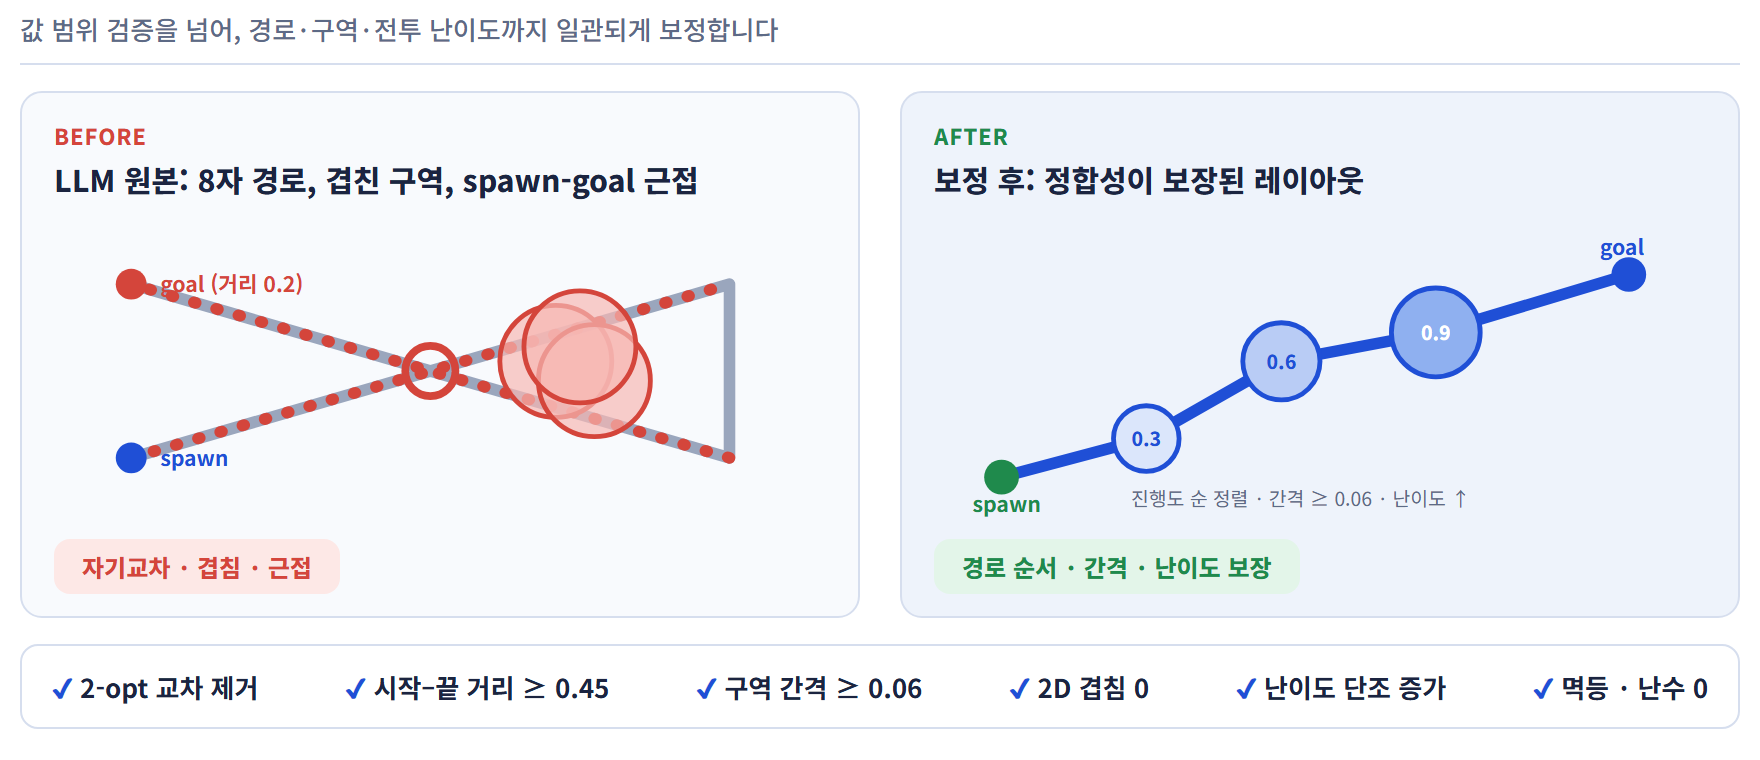
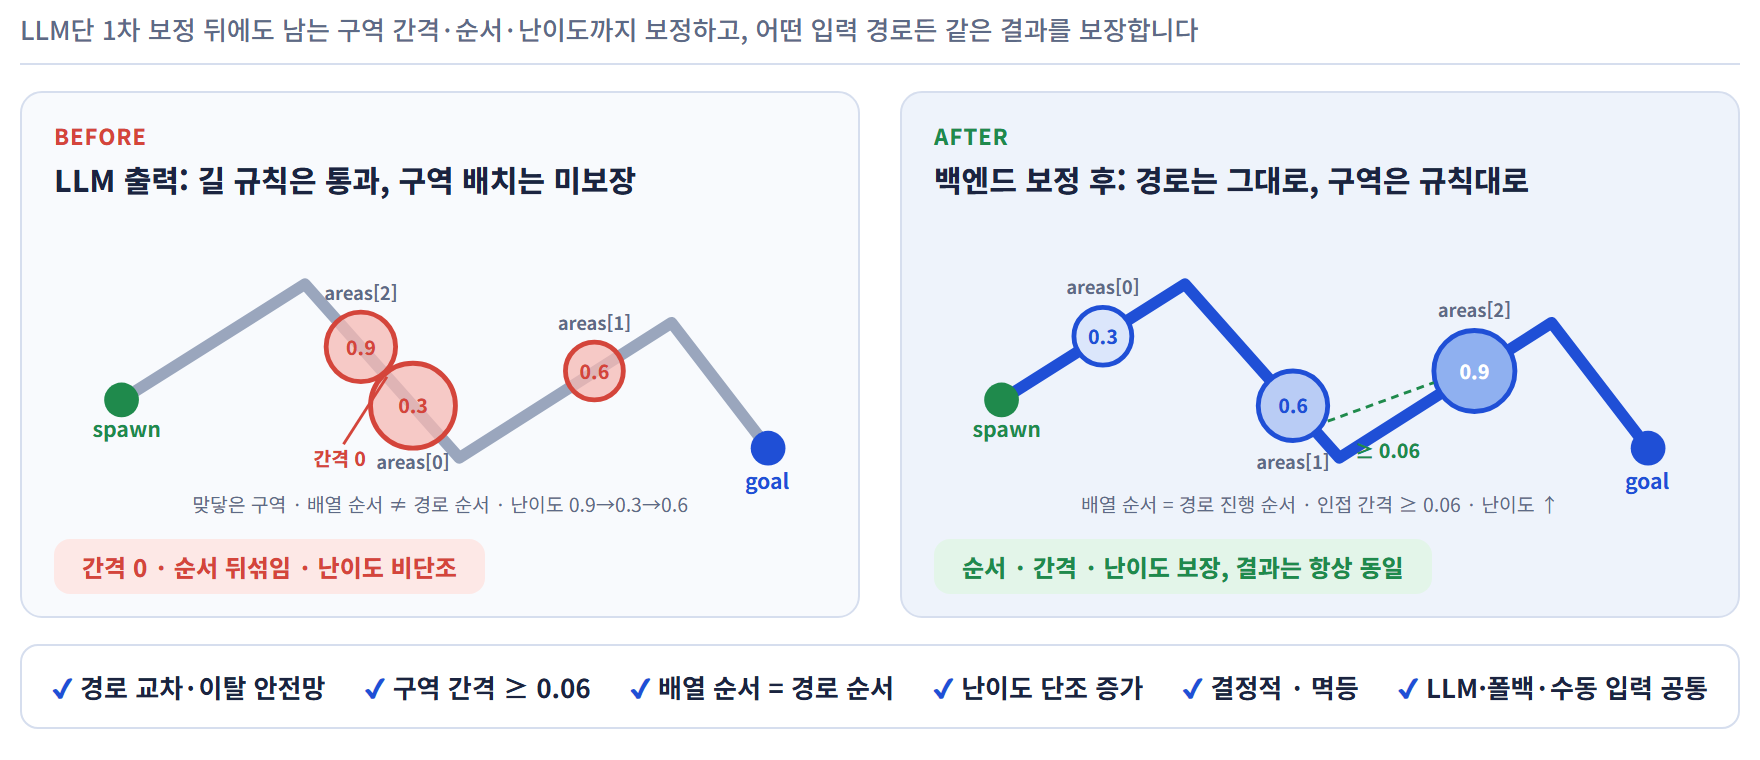
docs: 보정 엔진 도식을 LLM 1차 보정 이후 관점(간격·순서·난이도)으로 재구성

diff --git a/docs/slides/slide10.html b/docs/slides/slide10.html
@@ -19,49 +19,63 @@
   .strip { border:2px solid var(--line); border-radius:18px; padding:22px 30px; display:flex; justify-content:space-between; font-size:26px; font-weight:700; }
   .strip span::before { content:"✔ "; color:var(--blue); }
 </style></head><body><div class="wrap">
-  <div class="sub">값 범위 검증을 넘어, 경로·구역·전투 난이도까지 일관되게 보정합니다</div>
+  <div class="sub">LLM단 1차 보정 뒤에도 남는 구역 간격·순서·난이도까지 보정하고, 어떤 입력 경로든 같은 결과를 보장합니다</div>
   <div class="panels">
     <div class="panel">
-      <div class="tag b">BEFORE</div><h3>LLM 원본: 8자 경로, 겹친 구역, spawn-goal 근접</h3>
+      <div class="tag b">BEFORE</div><h3>LLM 출력: 길 규칙은 통과, 구역 배치는 미보장</h3>
       <svg viewBox="0 0 800 320">
-        <!-- figure-8 crossing path -->
-        <polyline points="80,250 700,70 700,250 80,70" fill="none" stroke="#9aa6bd" stroke-width="12" stroke-linejoin="round" stroke-linecap="round"/>
-        <line x1="80" y1="250" x2="700" y2="70" stroke="#d4453b" stroke-width="12" stroke-linecap="round" stroke-dasharray="2 22"/>
-        <line x1="700" y1="250" x2="80" y2="70" stroke="#d4453b" stroke-width="12" stroke-linecap="round" stroke-dasharray="2 22"/>
-        <circle cx="390" cy="160" r="26" fill="none" stroke="#d4453b" stroke-width="8"/>
-        <!-- overlapping combat circles -->
-        <circle cx="520" cy="150" r="58" fill="#f6b8b3" fill-opacity=".7" stroke="#d4453b" stroke-width="5"/>
-        <circle cx="560" cy="170" r="58" fill="#f6b8b3" fill-opacity=".7" stroke="#d4453b" stroke-width="5"/>
-        <circle cx="545" cy="135" r="58" fill="#f6b8b3" fill-opacity=".7" stroke="#d4453b" stroke-width="5"/>
-        <!-- spawn/goal too close -->
-        <circle cx="80" cy="250" r="16" fill="#1f4fd6"/>
-        <circle cx="80" cy="70" r="16" fill="#d4453b"/>
-        <text x="110" y="258" font-size="22" fill="#1f4fd6" font-weight="700">spawn</text>
-        <text x="110" y="78" font-size="22" fill="#d4453b" font-weight="700">goal (거리 0.2)</text>
+        <!-- same zig-zag path in both panels: shape is kept, not straightened -->
+        <polyline points="70,190 260,70 420,250 640,110 740,240" fill="none" stroke="#9aa6bd" stroke-width="12" stroke-linejoin="round" stroke-linecap="round"/>
+        <!-- touching combat circles (gap 0) -->
+        <circle cx="318" cy="135" r="36" fill="#f6b8b3" fill-opacity=".75" stroke="#d4453b" stroke-width="5"/>
+        <circle cx="372" cy="196" r="44" fill="#f6b8b3" fill-opacity=".75" stroke="#d4453b" stroke-width="5"/>
+        <!-- third combat, later on path -->
+        <circle cx="560" cy="160" r="30" fill="#f6b8b3" fill-opacity=".75" stroke="#d4453b" stroke-width="5"/>
+        <!-- array index labels out of path order + difficulty -->
+        <text x="318" y="143" font-size="20" fill="#d4453b" font-weight="800" text-anchor="middle">0.9</text>
+        <text x="372" y="204" font-size="20" fill="#d4453b" font-weight="800" text-anchor="middle">0.3</text>
+        <text x="560" y="168" font-size="20" fill="#d4453b" font-weight="800" text-anchor="middle">0.6</text>
+        <text x="318" y="86" font-size="19" fill="#5d6a86" font-weight="700" text-anchor="middle">areas[2]</text>
+        <text x="372" y="262" font-size="19" fill="#5d6a86" font-weight="700" text-anchor="middle">areas[0]</text>
+        <text x="560" y="118" font-size="19" fill="#5d6a86" font-weight="700" text-anchor="middle">areas[1]</text>
+        <!-- gap 0 marker -->
+        <line x1="345" y1="166" x2="300" y2="236" stroke="#d4453b" stroke-width="3"/>
+        <text x="296" y="258" font-size="20" fill="#d4453b" font-weight="800" text-anchor="middle">간격 0</text>
+        <circle cx="70" cy="190" r="18" fill="#1f8a4c"/>
+        <circle cx="740" cy="240" r="18" fill="#1f4fd6"/>
+        <text x="40" y="228" font-size="22" fill="#1f8a4c" font-weight="700">spawn</text>
+        <text x="716" y="282" font-size="22" fill="#1f4fd6" font-weight="700">goal</text>
+        <text x="400" y="306" font-size="20" fill="#5d6a86" text-anchor="middle">맞닿은 구역 · 배열 순서 ≠ 경로 순서 · 난이도 0.9→0.3→0.6</text>
       </svg>
-      <span class="pill b">자기교차 · 겹침 · 근접</span>
+      <span class="pill b">간격 0 · 순서 뒤섞임 · 난이도 비단조</span>
     </div>
     <div class="panel after">
-      <div class="tag a">AFTER</div><h3>보정 후: 정합성이 보장된 레이아웃</h3>
+      <div class="tag a">AFTER</div><h3>백엔드 보정 후: 경로는 그대로, 구역은 규칙대로</h3>
       <svg viewBox="0 0 800 320">
-        <polyline points="70,270 220,230 360,150 520,120 720,60" fill="none" stroke="#1f4fd6" stroke-width="12" stroke-linejoin="round" stroke-linecap="round"/>
-        <!-- evenly spaced combat circles along path, increasing difficulty -->
-        <circle cx="220" cy="230" r="34" fill="#dbe6fb" stroke="#1f4fd6" stroke-width="5"/>
-        <circle cx="360" cy="150" r="40" fill="#b9ccf5" stroke="#1f4fd6" stroke-width="5"/>
-        <circle cx="520" cy="120" r="46" fill="#8fb0f0" stroke="#1f4fd6" stroke-width="5"/>
-        <text x="220" y="238" font-size="20" fill="#1f4fd6" font-weight="800" text-anchor="middle">0.3</text>
-        <text x="360" y="158" font-size="20" fill="#1f4fd6" font-weight="800" text-anchor="middle">0.6</text>
-        <text x="520" y="128" font-size="20" fill="#fff" font-weight="800" text-anchor="middle">0.9</text>
-        <circle cx="70" cy="270" r="18" fill="#1f8a4c"/>
-        <circle cx="720" cy="60" r="18" fill="#1f4fd6"/>
-        <text x="40" y="306" font-size="22" fill="#1f8a4c" font-weight="700">spawn</text>
-        <text x="690" y="40" font-size="22" fill="#1f4fd6" font-weight="700">goal</text>
-        <text x="380" y="300" font-size="20" fill="#5d6a86" text-anchor="middle">진행도 순 정렬 · 간격 ≥ 0.06 · 난이도 ↑</text>
+        <polyline points="70,190 260,70 420,250 640,110 740,240" fill="none" stroke="#1f4fd6" stroke-width="12" stroke-linejoin="round" stroke-linecap="round"/>
+        <!-- spaced along path, ordered, difficulty increasing -->
+        <circle cx="175" cy="124" r="30" fill="#dbe6fb" stroke="#1f4fd6" stroke-width="5"/>
+        <circle cx="372" cy="196" r="36" fill="#b9ccf5" stroke="#1f4fd6" stroke-width="5"/>
+        <circle cx="560" cy="160" r="42" fill="#8fb0f0" stroke="#1f4fd6" stroke-width="5"/>
+        <text x="175" y="132" font-size="20" fill="#1f4fd6" font-weight="800" text-anchor="middle">0.3</text>
+        <text x="372" y="204" font-size="20" fill="#1f4fd6" font-weight="800" text-anchor="middle">0.6</text>
+        <text x="560" y="168" font-size="20" fill="#fff" font-weight="800" text-anchor="middle">0.9</text>
+        <text x="175" y="80" font-size="19" fill="#5d6a86" font-weight="700" text-anchor="middle">areas[0]</text>
+        <text x="372" y="262" font-size="19" fill="#5d6a86" font-weight="700" text-anchor="middle">areas[1]</text>
+        <text x="560" y="104" font-size="19" fill="#5d6a86" font-weight="700" text-anchor="middle">areas[2]</text>
+        <!-- gap marker -->
+        <line x1="408" y1="212" x2="518" y2="172" stroke="#1f8a4c" stroke-width="3" stroke-dasharray="8 6"/>
+        <text x="470" y="250" font-size="20" fill="#1f8a4c" font-weight="800" text-anchor="middle">≥ 0.06</text>
+        <circle cx="70" cy="190" r="18" fill="#1f8a4c"/>
+        <circle cx="740" cy="240" r="18" fill="#1f4fd6"/>
+        <text x="40" y="228" font-size="22" fill="#1f8a4c" font-weight="700">spawn</text>
+        <text x="716" y="282" font-size="22" fill="#1f4fd6" font-weight="700">goal</text>
+        <text x="400" y="306" font-size="20" fill="#5d6a86" text-anchor="middle">배열 순서 = 경로 진행 순서 · 인접 간격 ≥ 0.06 · 난이도 ↑</text>
       </svg>
-      <span class="pill a">경로 순서 · 간격 · 난이도 보장</span>
+      <span class="pill a">순서 · 간격 · 난이도 보장, 결과는 항상 동일</span>
     </div>
   </div>
   <div class="strip">
-    <span>2-opt 교차 제거</span><span>시작–끝 거리 ≥ 0.45</span><span>구역 간격 ≥ 0.06</span><span>2D 겹침 0</span><span>난이도 단조 증가</span><span>멱등 · 난수 0</span>
+    <span>경로 교차·이탈 안전망</span><span>구역 간격 ≥ 0.06</span><span>배열 순서 = 경로 순서</span><span>난이도 단조 증가</span><span>결정적 · 멱등</span><span>LLM·폴백·수동 입력 공통</span>
   </div>
 </div></body></html>
